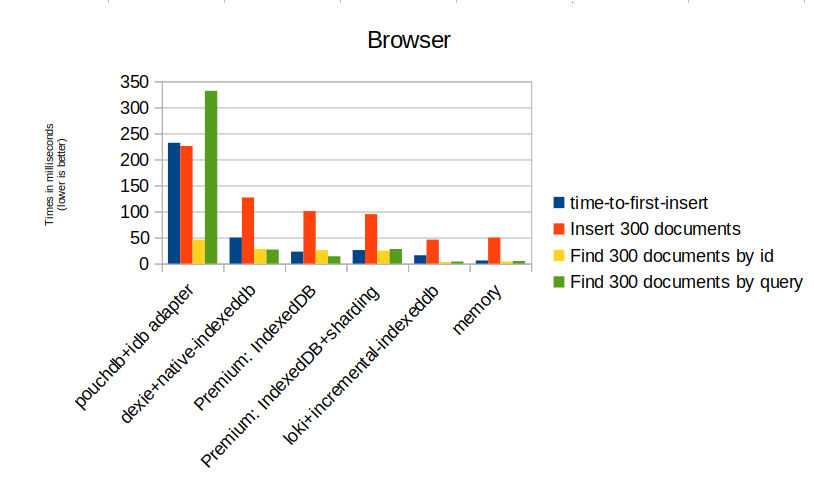
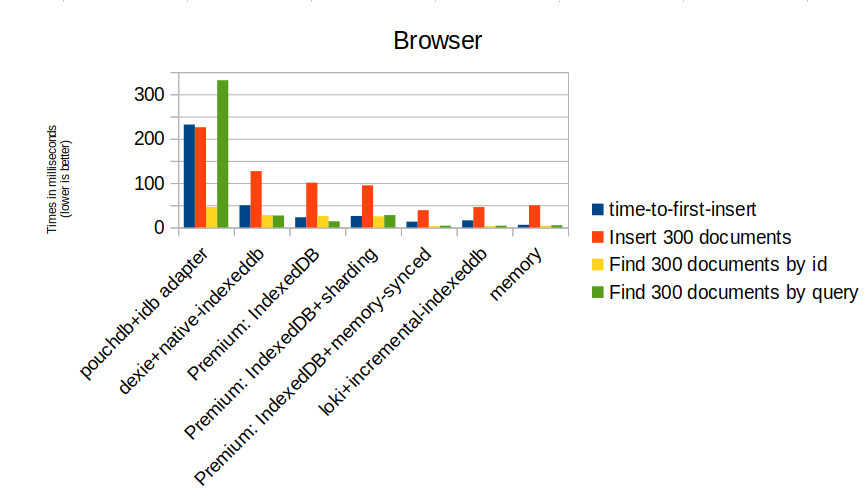
ADD memory-synced RxStorage

diff --git a/docs-src/rx-storage-memory-synced.md b/docs-src/rx-storage-memory-synced.md
@@ -1,0 +1,98 @@
+# Memory Synced RxStorage
+
+The memory synced [RxStorage](./rx-storage.md) is a wrapper around any other RxStorage. The wrapper creates an in-memory storage that is used for query and write operations. This memory instance is replicated with the underlaying storage for persistence.
+The main reason to use this is to improve initial page load and query/write times. This is mostly usefull in browser based applications.
+
+## Pros
+
+- Improves read/write performance because these operations run against the in-memory storage.
+- Decreases initial page load because it load all data in a single bulk request. It even detects if the datbase is used for the first time and then it does not have to await the creation of the persistend storage.
+
+
+## Cons
+
+- It does not support attachments.
+- When the JavaScript process is killed ungracefully like when the browser crashes or the power of the PC is terminated, it might happen that some memory writes are not persisted to the parent storage.
+- This can only be used if all data fits into the memory of the JavaScript process. This is normally not a problem because a browser has much memory these days and plain json document data is not that big.
+- Because it has to await an initial replication from the parent storage into the memory, initial page load time can increase when much data is already stored. This is likely not a problem when you store less then `10k` documents.
+
+
+**NOTICE:** The sharding plugin is part of [RxDB premium](./premium.md). It is not part of the default RxDB module.
+
+## Usage
+
+
+```ts
+import {
+    getRxStorageIndexedDB
+} from 'rxdb-premium/plugins/indexeddb';
+import {
+    getMemorySyncedRxStorage
+} from 'rxdb-premium/plugins/memory-synced';
+
+/**
+ * Here we use the IndexedDB RxStorage as persistence storage.
+ * Any other RxStorage can also be used.
+ */
+const parentStorage = getRxStorageIndexedDB();
+
+// wrap the persistend storage with the memory synced one.
+const storage = getMemorySyncedRxStorage({
+    storage: parentStorage
+});
+
+// create the RxDatabase like you would do with any other RxStorage
+const db = await createRxDatabase({
+    name: 'myDatabase,
+    storage,
+});
+/** ... **/
+```
+
+
+## Options
+
+Some options can be provided to fine tune the performance.
+
+```ts
+
+import {
+    requestIdlePromise
+} from 'rxdb';
+
+const storage = getMemorySyncedRxStorage({
+    storage: parentStorage,
+    /**
+     * By default, the parent storage will be created without indexes for a faster page load.
+     * Indexes are not needed because the queries will anyway run on the memory storage.
+     * You can disable this behavior by setting keepIndexesOnParent to true.
+     * 
+     * (optional)
+     */
+    keepIndexesOnParent: true,
+
+    /**
+     * After a write, await until the return value of this method resolves
+     * before replicating with the master storage.
+     * 
+     * By returning requestIdlePromise() we can ensure that the CPU is idle
+     * and no other, more important operation is running. By doing so we can be sure
+     * that the replication does not slow down any rendering of the browser process.
+     * 
+     * (optional)
+     */
+    waitBeforePersist: () => requestIdlePromise();
+});
+```
+
+
+## Comparison with the LokiJS RxStorage
+
+The [LokiJS RxStorage](./rx-storage-lokijs.md) also loads the whole database state into the memory to improve operation time.
+In comparison to LokiJS, the `Memory Synced` RxStorage has many improvements and performance optimizations to reduce initial load time. Also it uses replication instead of the leader election to handle multi-tab usage. This alone decreases the inital page load by about 200 milliseconds.
+
+
+
+--------------------------------------------------------------------------------
+
+If you are new to RxDB, you should continue [here](./rx-storage-sharding.md)

diff --git a/docs-src/rx-storage.md b/docs-src/rx-storage.md
@@ -20,7 +20,7 @@ It stores the data inside of a browsers IndexedDB database and has a very small 
 
 ### Memory
 
-A plain in-memory storage. Really fast and can be used in all environments. [Read more](./rx-storage-memory.md)
+A storage that stores the data in as plain data in the memory of the JavaScript process. Really fast and can be used in all environments. [Read more](./rx-storage-memory.md)
 
 ### IndexedDB
 
@@ -38,7 +38,10 @@ The worker RxStorage is a wrapper around any other RxStorage which allows to run
 
 On some `RxStorage` implementations (like IndexedDB), a huge performance improvement can be done by sharding the documents into multiple database instances. With the sharding plugin you can wrap any other `RxStorage` into a sharded storage. [Read more](./rx-storage-sharding.md)
 
+### Memory Synced
 
+The memory synced [RxStorage](./rx-storage.md) is a wrapper around any other RxStorage. The wrapper creates an in-memory storage that is used for query and write operations. This memory instance is replicated with the underlaying storage for persistence.
+The main reason to use this is to improve initial page load and query/write times. This is mostly usefull in browser based applications. [Read more](./rx-storage-memory-synced.md)
 
 
 
@@ -48,7 +51,7 @@ A big difference in the RxStorage implementations is the performance. In differe
 
 **LokiJS** stores all data in memory and only saves to disc occasionally (or on exit). Therefore it has a very fast read/write performance, but loading all data into memory on the first page load can take longer for big amounts of documents. Also this storage can only be used when all data fits into the memory at least once.
 
-The Premium **sharding** RxStorage is only usefull when bug amounts of documents have to be stored or queries. In the CI performance test, we only insert 300 documents so that the performance actually decreases when sharding is used.
+The Premium **sharding** RxStorage is only usefull when big amounts of documents have to be stored or queries. In the CI performance test, we only insert 300 documents so that the performance actually decreases when sharding is used.
 
 The **PouchDB** RxStorage is slow because it has to handle all revisions of a document on writes and queries. This makes PouchDB the only storage where it is possible to replicate with a CouchDB compatible endpoint.
 

diff --git a/docs-src/premium.md b/docs-src/premium.md
@@ -10,7 +10,8 @@ To make RxDB a sustainable Project, some plugins are not part of the RxDB open s
 - [RxStorage SQLite](./rx-storage-sqlite.md) a really fast [RxStorage](./rx-storage.md) implementation based on **SQLite**. Made to be used on **Node.js**, **Electron**, **React Native**, **Cordova** or **Capacitor**.
 - [RxStorage Sharding](./rx-storage-sharding.md) a wrapper around any other [RxStorage](./rx-storage.md) that improves performance by applying the sharding technique.
 - **migrateRxDBV11ToV12** A plugins that migrates data from any RxDB v11 storage to a new RxDB v12 database. Use this when you upgrade from RxDB 11->12 and you have to keep your database state.
-
+- [RxStorage Memory Synced](./rx-storage-memory-synced.md) is a wrapper around any other RxStorage. The wrapper creates an in-memory storage that is used for query and write operations. This memory instance is replicated with the underlaying storage for persistence.
+The main reason to use this is to improve initial page load and query/write times. This is mostly usefull in browser based applications.
 
 ## Getting Premium
 

diff --git a/docs-src/rx-storage-worker.md b/docs-src/rx-storage-worker.md
@@ -112,4 +112,4 @@ const databaseTwo = await createRxDatabase({
 
 --------------------------------------------------------------------------------
 
-If you are new to RxDB, you should continue [here](./rx-storage-sharding.md)
+If you are new to RxDB, you should continue [here](./rx-storage-memory-synced.md)

diff --git a/CHANGELOG.md b/CHANGELOG.md
@@ -2,7 +2,7 @@
 # RxDB Changelog
 
 <!-- CHANGELOG NEWEST -->
-
+- Add the [Memory Synced RxStorage](https://rxdb.info/rx-storage-memory-synced.html) to the premium plugins.
 <!-- ADD new changes here! -->
 
 <!-- /CHANGELOG NEWEST -->

diff --git a/docs-src/SUMMARY.md b/docs-src/SUMMARY.md
@@ -128,6 +128,8 @@
 
 * [RxStorage Worker](./rx-storage-worker.md)
 
+* [RxStorage Memory Synced](./rx-storage-memory-synced.md)
+
 * [RxStorage Sharding](./rx-storage-sharding.md)
 
 * [Replication CouchDB](./replication-couchdb.md)
